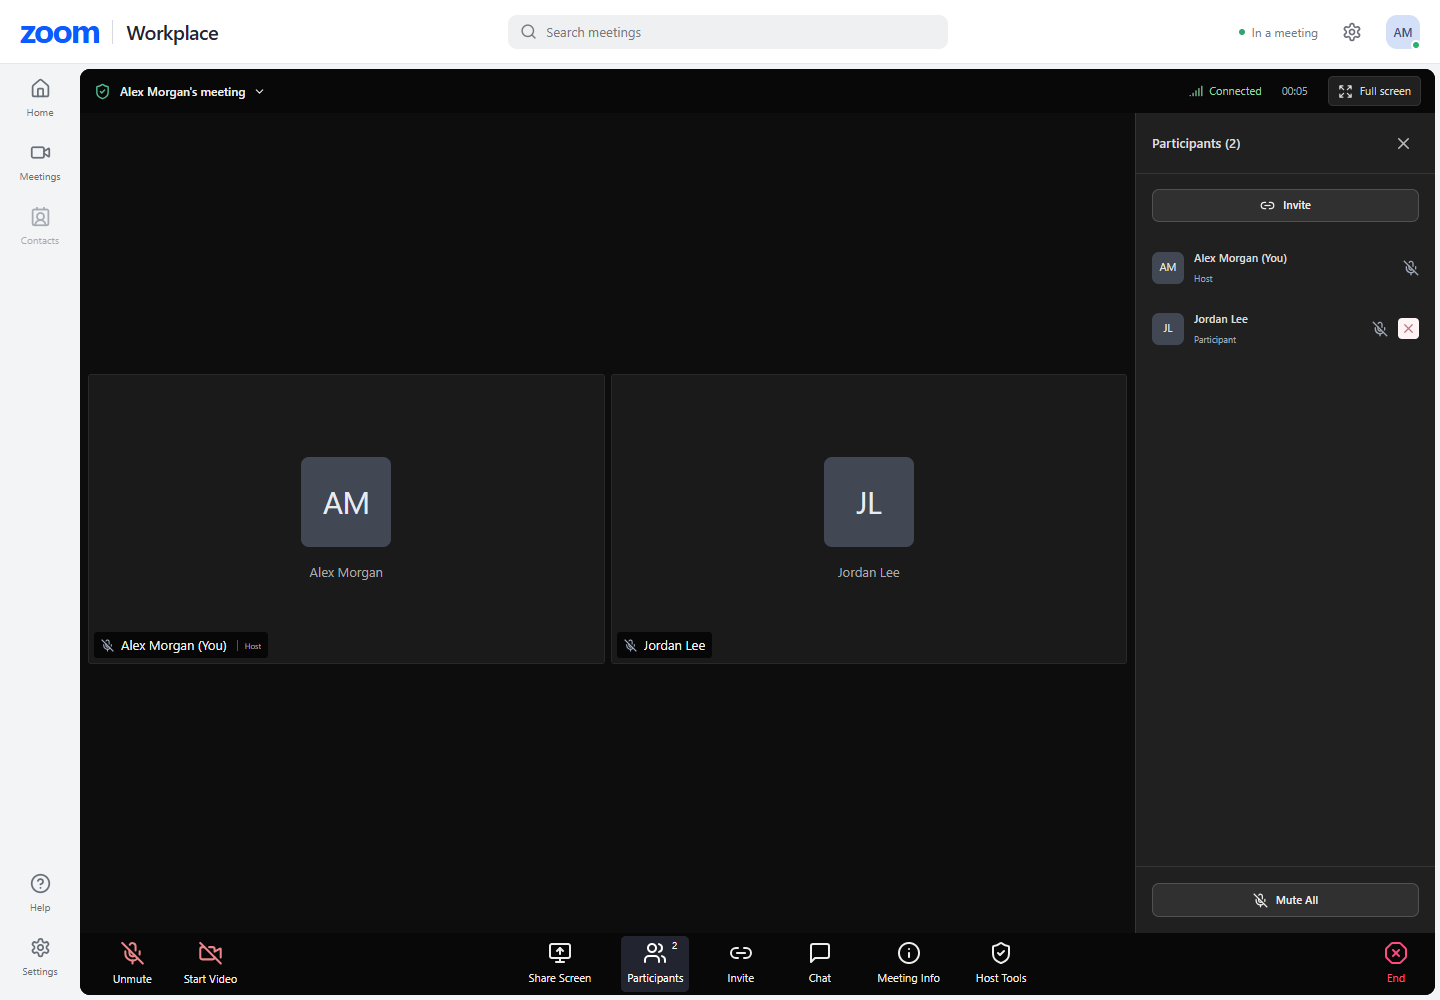
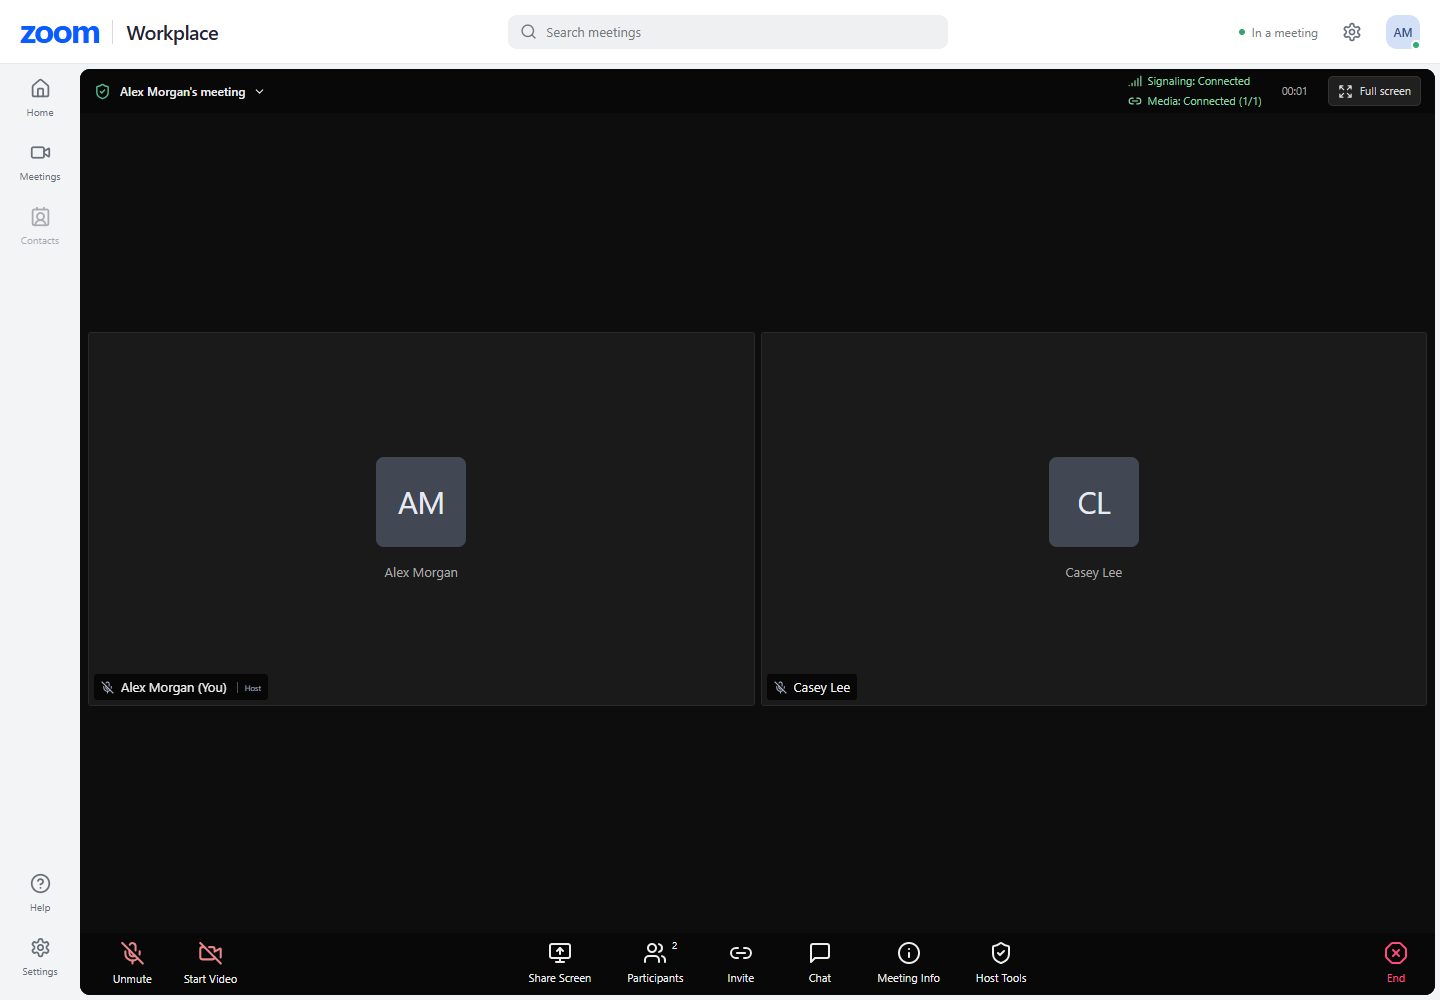
docs: record release gaps and hosted TURN verification steps

diff --git a/docs/RELEASE_CHECKS.md b/docs/RELEASE_CHECKS.md
@@ -1,0 +1,72 @@
+# Reliability and release checks
+
+## Deployment audit
+
+Read-only checks on October 9, 2026 found:
+
+| Source             | Commit                                     | Status                              |
+| ------------------ | ------------------------------------------ | ----------------------------------- |
+| GitHub `main`      | `d68a3ed015b58135155aa41bda6759f247bacca6` | Current remote source at audit time |
+| Vercel production  | `d68a3ed015b58135155aa41bda6759f247bacca6` | Ready, public application available |
+| Railway production | `53a71a7d08b0682767cb1a041e98908fca79f6a3` | Healthy, behind GitHub              |
+
+The existing Railway service has its SQLite volume mounted at `/data`, one replica, and a Dockerfile build rooted at `/backend`. Health was OK; reviewed runtime logs contained no errors. Public RTC configuration advertised two participants, normal ICE policy, and STUN only. No deployment or production configuration change was performed, and no database reset was requested. Local changes require approval before publication or deployment.
+
+The deployed calendar download returned HTTP 404, and the old source snapshot lacks the current bounded startup script and REST/WebSocket limit modules. This confirms a real release gap; public health alone does not establish frontend/backend feature compatibility. Updating the existing backend is required before final submission. SQLAlchemy models and database schema are unchanged relative to that deployed source, so this release requires no schema migration.
+
+## Changes and evidence
+
+- Signaling and peer media transport have separate status labels. A connected WebSocket can coexist with failed ICE without a green media indicator. A solo host sees a waiting state. The failure/retry test checks both labels.
+- Prejoin lists camera and microphone inputs through `enumerateDevices`. Selection uses an exact device ID. A successful replacement retains the other input and mute state; a failed replacement leaves the existing input live. Device changes refresh the list. Late capture results are stopped after cancellation, navigation, or meeting termination.
+- Native select controls support keyboard navigation. Browser tests cover replacement failure, permission denial, removed devices, mobile overflow, selected tracks reaching the call, real synthetic RTP, and capture cleanup. Input aliases in the switching fixture represent two choices backed by native synthetic capture; physical hardware selection remains untested.
+- WebKit reproduced topic input being cleared during initial hydration. Scheduling inputs now wait for browser timezone initialization before accepting edits. An unavailable capture API has an explicit message and still allows joining without media.
+- Mobile screenshots exposed two participant tiles collapsing to their placeholder content height. Grid rows now divide the available canvas height. The two-party device test also checks usable tile height at 390 pixels.
+- Trusted proxy identity is explicit and shared by REST limiting and WebSocket admission. Tests reject untrusted, forged, duplicate, and malformed forwarded identity. No new infrastructure or authorization cache was added.
+- The existing offer ownership, serialized signaling, generation-aware ICE queue, restart path, and peer teardown were retained. No new negotiation defect was reproduced. Local direct and UDP/TCP relay tests passed with the updated capture hook.
+- Four-person measurement runs passed twice per profile, with adaptation and ICE recovery tested separately. Browser downscaling limits the interpretation of the 720p results. See [mesh measurements](MESH_VERIFICATION.md).
+
+Backend: **104 pytest tests passed**, with nine existing dependency deprecation warnings. Ruff lint and formatting passed. At the two-person limit, **19 Chrome Playwright tests passed**, including two local relay tests; six mesh/performance cases skipped intentionally. Separately, three mesh workflow cases and six performance runs passed at capacity four.
+
+Frontend lint, type checking, formatting, and production build passed. Nine existing workflow checks also passed in Windows Playwright WebKit, covering calendar export, scheduling/timezones, joining, keyboard tabs, 1440/768/390 layouts, backend errors, and no-media admission. This WebKit runtime has no `getUserMedia`; its no-media check verifies the unsupported-API path. It does not verify Safari or WebKit audio/video.
+
+Firefox's nine attempted checks failed before application assertions because its installed test runtime could not launch (`spawn UNKNOWN`; Windows reported a `mozglue` side-by-side assembly error). Firefox compatibility remains unverified. No Windows security setting or application dependency was changed to work around it. Reinstall the pinned browser on a working test machine and rerun:
+
+```powershell
+cd frontend
+npx.cmd playwright install firefox webkit
+npm.cmd run test:e2e -- --config playwright.compatibility.config.ts
+```
+
+Use the same isolated backend and URL overrides as the main suite. [Playwright's browser documentation](https://playwright.dev/docs/browsers) explains the differences between its patched engines and branded Safari/Firefox. The separate config reuses existing workflow tests and removes Chromium-specific capture flags and permissions.
+
+A scheduled SQLite record retained its code, title, description, timestamp, duration, status, and invitation across an isolated local backend restart. Production restart persistence remains untested for this release.
+
+Prejoin and meeting-room screenshots were captured at 1440, 768, and 390 pixels. The mobile canvas fix was visually inspected, and the README meeting-room screenshot was refreshed from the final local production build.
+
+## Changed files
+
+| Area                     | Files                                                                                                                                                                                            |
+| ------------------------ | ------------------------------------------------------------------------------------------------------------------------------------------------------------------------------------------------ |
+| Proxy configuration      | `backend/.env.example`, `backend/app/config.py`, `backend/app/main.py`, `backend/app/server.py`, `backend/app/proxy.py`                                                                          |
+| Backend regression tests | `backend/tests/test_proxy.py`, `backend/tests/test_websocket_transport.py`                                                                                                                       |
+| Media and status UI      | `frontend/hooks/use-local-media.ts`, `frontend/components/meeting-room.tsx`, `frontend/components/device-selectors.tsx`, `frontend/components/connection-status.tsx`, `frontend/app/globals.css` |
+| Hydration guard          | `frontend/components/meeting-forms.tsx`                                                                                                                                                          |
+| Browser verification     | `frontend/tests/devices.spec.ts`, `frontend/tests/rtc.spec.ts`, `frontend/tests/workflows.spec.ts`, `frontend/tests/mesh-performance.spec.ts`, `frontend/playwright.compatibility.config.ts`     |
+| Documentation            | `README.md`, `docs/DEPLOYMENT.md`, `docs/MESH_VERIFICATION.md`, `docs/RELEASE_CHECKS.md`                                                                                                         |
+
+The refreshed image is `docs/screenshots/meeting-room.png`.
+
+## Publish the tested release
+
+1. Review the local commits and obtain approval before pushing to GitHub. Pushing `main` can trigger Vercel automatically. Run GitHub CI for the exact published commit.
+2. In the existing Railway production service, stage source `Vansh-7/zoom-clone`, branch `main`, root `/backend`, selecting the exact tested commit. Do not redeploy the old deployment's source snapshot. Review changes before applying them.
+3. Preserve the `/data` volume, database path, existing variables, Dockerfile/startup script, health check, one worker/replica, and capacity two. Configure trusted proxy identity only after verifying the edge policy described in [deployment instructions](DEPLOYMENT.md).
+4. Obtain approval to apply the staged backend deployment. Coordinate with active participants because a restart ends calls. Check the deployed commit, health, startup logs, and volume mount afterward.
+5. Confirm Vercel uses the same tested commit, the existing public domain, and its existing HTTPS API origin. Verify direct invitations and WSS signaling between the two releases.
+6. Run the deployment acceptance checklist. Record a scheduled meeting before a backend restart, then retrieve the same code and fields afterward to verify persistence. Local tests do not substitute for this production check.
+
+## Remaining manual checks
+
+Choose a hosted TURN provider and configure issued credentials directly in Railway. Follow the per-transport, relay-only two-device procedure in [deployment instructions](DEPLOYMENT.md), then restore normal ICE policy. Hosted TURN, TLS relay, physical cameras/microphones, cross-network calls, long sessions, real Safari/iOS/Android permissions, and physical input switching remain unverified.
+
+Speaker selection is deferred; output follows browser/system settings. Meeting editing and cancellation are deferred because they are outside the mandatory assignment workflows. Production capacity stays at two until separate physical-device and network verification supports a change.

diff --git a/docs/DEPLOYMENT.md b/docs/DEPLOYMENT.md
@@ -34,11 +34,25 @@ Obtain a TURN hostname, supported ports/transports, username, credential, expiry
 ]
 ```
 
-Use only URLs and ports supported by your provider. Keep `ICE_TRANSPORT_POLICY=all` for normal operation. Redeploy, then check `/api/rtc-config` without copying credentials into logs, screenshots, or Git.
+Use only URLs and ports supported by your provider. Some providers use TCP/TLS port 443 instead of these example ports. Do not assume a provider's STUN hostname also accepts TURN. Keep `ICE_TRANSPORT_POLICY=all` for normal operation.
 
-To verify the relay, temporarily use `ICE_TRANSPORT_POLICY=relay`, start a fresh two-person meeting, and inspect the selected candidate pair and inbound/outbound RTP in `chrome://webrtc-internals`. Both participants must receive audio and decoded video frames. Test each supported transport, then restore `all` and redeploy.
+1. Choose a provider and obtain its browser-compatible TURN URLs and username/password credentials. Confirm expiry, traffic quota, supported transports, and renewal rules. Credentials must remain valid for the evaluation period and new ICE allocations.
+2. In Railway, open the existing `zoom-api` service, production environment, then Variables. Replace `ICE_SERVERS_JSON` with the JSON array above using the issued values. Keep the existing volume, database path, origins, replica count, and participant limit. Do not put credentials in Vercel, Git, or this document.
+3. Obtain release approval before applying the variable changes and redeploying. Existing calls are interrupted. Check backend health and startup logs. In a private browser session, inspect `/api/rtc-config` and confirm it contains the expected TURN schemes and policy without saving or sharing its credential-bearing response. New connections fetch this configuration; existing peers retain their old ICE settings.
+4. For each supported transport, temporarily configure exactly one TURN URL and `ICE_TRANSPORT_POLICY=relay`. Offering UDP, TCP, and TLS together can fall back to another transport and does not prove all three work. Apply the changes, then open fresh browser contexts and a fresh meeting.
+5. Use two physical devices with headsets, first on Wi-Fi and then on separate Wi-Fi/mobile networks. Open `chrome://webrtc-internals` before joining. Verify the selected candidate pair uses a relay and the intended transport. On both devices, confirm increasing outbound and inbound audio/video packets, decoded video frames, visible remote video, and audible remote sound. A connected signaling indicator alone is insufficient.
+6. Toggle camera/microphone, share a screen and stop sharing, retry ICE, leave/rejoin, send chat, and exercise host controls. If ICE fails, copy the application's connection diagnostics. They omit candidate addresses, SDP, tokens, and credentials. Do not share raw browser WebRTC dumps without reviewing their sensitive contents.
+7. Restore all supported TURN URLs and `ICE_TRANSPORT_POLICY=all`, apply the changes, and repeat a fresh two-device meeting. Record the tested devices, browsers, networks, transports, and date. Keep `MAX_PARTICIPANTS=2`.
 
-Browsers must receive ICE credentials to use TURN. Use restricted credentials with quotas and rotate them as the provider requires. Automatic issuance of short-lived TURN credentials is not implemented. See [WebRTC TURN guidance](https://webrtc.org/getting-started/turn-server).
+Browsers must receive ICE credentials to use TURN; this application's public RTC configuration returns them to meeting clients. Use provider restrictions and quotas and rotate credentials as required. Do not use an unrestricted administrative credential. Automatic issuance or renewal of short-lived TURN credentials is not implemented. See [WebRTC TURN guidance](https://webrtc.org/getting-started/turn-server).
+
+## Proxy identity and rate limits
+
+Railway's edge supplies `X-Real-IP`, documented in its [public networking reference](https://docs.railway.com/networking/public-networking/specs-and-limits). The application accepts that header only when the actual socket peer belongs to an explicit `TRUSTED_PROXY_CIDRS` allowlist. The same resolved identity is used by REST limits and WebSocket admission. Uvicorn's implicit forwarded-header handling is disabled, and caller-supplied `X-Forwarded-For` never selects a budget.
+
+Leave the allowlist empty for local use. Before enabling it in Railway, confirm the edge's source range and that the edge replaces incoming `X-Real-IP`. The observed service peers during this audit were within `100.64.0.0/24`; that observation is not a documented Railway guarantee. Set that range only after confirming it applies to this service, or use the narrower confirmed IPs/CIDRs. Do not use `*`, an all-address range, or the whole shared-address space. Recheck the policy after region/network changes. No production variable was changed during this audit.
+
+With an empty allowlist or an unrecognized edge peer, limits fall back to the socket address. This prevents header-based bypass but can make clients behind an edge share a budget. Configuration validation and tests cover empty/untrusted/duplicate/malformed headers, distinct client budgets, and matching HTTP/WebSocket identity. Production identity verification remains a release check.
 
 ## Acceptance checks
 
@@ -53,6 +67,6 @@ Browsers must receive ICE credentials to use TURN. Use restricted credentials wi
 
 Repeat media checks with physical devices on the intended networks. Synthetic browser tests and a local TURN fixture verify application behavior, but do not verify a hosted relay, device drivers, or network firewalls.
 
-Public REST endpoints use bounded in-memory token buckets with separate budgets for creation, joining, claiming samples, reads, and host actions. Excess traffic receives `429` with `Retry-After`. Health checks, CORS preflight, and participant leave requests remain available. Limits use the server-resolved client address; users behind a shared proxy can share a budget. Do not trust arbitrary forwarded headers to bypass this behavior.
+Public REST endpoints use bounded in-memory token buckets with separate budgets for creation, joining, claiming samples, reads, and host actions. Excess traffic receives `429` with `Retry-After`. Health checks, CORS preflight, and participant leave requests remain available. Users behind a shared public IP can share a budget even with correctly configured proxy identity.
 
 Dependency check on October 9, 2026: `npm audit --omit=dev` reports zero vulnerabilities. The full audit reports five high-severity entries in the ESLint dependency chain, originating from [the braces advisory](https://github.com/advisories/GHSA-vfj7-8cjw-p6xm). No patched braces version is available. Keep lint inputs limited to the trusted repository and recheck for an upstream fix; a forced downgrade of Next.js tooling was not applied.

diff --git a/README.md b/README.md
@@ -9,9 +9,9 @@ A Zoom-inspired browser application for instant meetings, scheduling, and meetin
 - Home dashboard and split-view meeting manager with upcoming and previous meetings from SQLite.
 - Instant meetings with unique 11-digit IDs, shareable invitations, and joining by ID or link.
 - Scheduling with local date/time, timezone display, duration, and downloadable calendar invitations.
-- Two-person audio/video, media preview, microphone/camera controls, screen sharing, and meeting chat.
+- Two-person audio/video, prejoin camera/microphone selection, media preview, screen sharing, and meeting chat.
 - Server-authorized host start, mute-all, participant removal, and end-for-everyone controls.
-- Responsive pages, keyboard navigation, media permission messages, connection diagnostics, and ICE retry.
+- Responsive pages, keyboard navigation, permission messages, separate signaling/media status, diagnostics, and ICE retry.
 
 ## Stack and architecture
 
@@ -71,17 +71,18 @@ For a local production build, replace `npm.cmd run dev` with `npm.cmd run build`
 
 Use [backend/.env.example](backend/.env.example) and [frontend/.env.example](frontend/.env.example). Never commit actual environment files or TURN credentials.
 
-| Variable                   | Purpose                                                               |
-| -------------------------- | --------------------------------------------------------------------- |
-| `NEXT_PUBLIC_API_BASE_URL` | Backend origin, set before the frontend build.                        |
-| `DATABASE_URL`             | SQLite path; Railway uses `sqlite:////data/zoom.db`.                  |
-| `FRONTEND_URL`             | Public frontend origin used in invitation links.                      |
-| `CORS_ORIGINS`             | Comma-separated allowed browser origins, also checked for WebSockets. |
-| `SEED_DATA`                | Enable repeatable sample data and future sample replenishment.        |
-| `MAX_PARTICIPANTS`         | Room capacity; default `2`.                                           |
-| `DISCONNECT_GRACE_SECONDS` | Host disconnect grace period; default `30`.                           |
-| `ICE_SERVERS_JSON`         | JSON array of STUN/TURN server definitions.                           |
-| `ICE_TRANSPORT_POLICY`     | `all` normally; `relay` for relay-only verification.                  |
+| Variable                   | Purpose                                                                 |
+| -------------------------- | ----------------------------------------------------------------------- |
+| `NEXT_PUBLIC_API_BASE_URL` | Backend origin, set before the frontend build.                          |
+| `DATABASE_URL`             | SQLite path; Railway uses `sqlite:////data/zoom.db`.                    |
+| `FRONTEND_URL`             | Public frontend origin used in invitation links.                        |
+| `CORS_ORIGINS`             | Comma-separated allowed browser origins, also checked for WebSockets.   |
+| `SEED_DATA`                | Enable repeatable sample data and future sample replenishment.          |
+| `MAX_PARTICIPANTS`         | Room capacity; default `2`.                                             |
+| `DISCONNECT_GRACE_SECONDS` | Host disconnect grace period; default `30`.                             |
+| `ICE_SERVERS_JSON`         | JSON array of STUN/TURN server definitions.                             |
+| `ICE_TRANSPORT_POLICY`     | `all` normally; `relay` for relay-only verification.                    |
+| `TRUSTED_PROXY_CIDRS`      | Confirmed proxy peers allowed to supply client identity; empty locally. |
 
 1. **Railway:** use `backend` as the root directory and its Dockerfile. Mount a persistent volume at `/data`, set `DATABASE_URL=sqlite:////data/zoom.db`, and configure `/api/health` as the health check. Keep one worker and one replica. The startup script reads Railway's `PORT` and enforces WebSocket transport limits.
 2. Set `FRONTEND_URL` and `CORS_ORIGINS` to the exact HTTPS frontend origin. Preserve the volume and existing variables when updating the service. Check volume permissions before changing the runtime user.
@@ -113,7 +114,7 @@ npm.cmd run test:e2e
 
 Start both servers before Playwright. Tests default to ports 3000 and 8000; `E2E_FRONTEND_URL` and `E2E_API_URL` override them. Use a separate SQLite database for browser tests because they create meeting records. Relay tests require `E2E_RTC_CONFIG_FILE`; they skip when no fixture is supplied.
 
-Verified on October 9, 2026: 84 backend tests, Ruff, frontend lint, type checking, formatting, and production build passed. All 16 existing local Playwright tests passed, including synthetic bidirectional audio/video, ICE recovery, screen sharing, chat, host controls, and local TURN relay tests over UDP and TCP. SQLite persistence was verified across a local backend restart. Separate three/four-person checks and their limits are documented in [mesh verification](docs/MESH_VERIFICATION.md); production remains capped at two.
+Verified on October 9, 2026: 104 backend tests and 19 local Chrome Playwright tests passed, including synthetic bidirectional media, device switching, ICE recovery, sharing, chat, host controls, and local UDP/TCP relay tests. Ruff, frontend lint, type checking, formatting, and production build passed. See [release checks](docs/RELEASE_CHECKS.md) for deployment status and [mesh verification](docs/MESH_VERIFICATION.md) for separate three/four-person measurements. Production remains capped at two.
 
 ## Limitations
 
